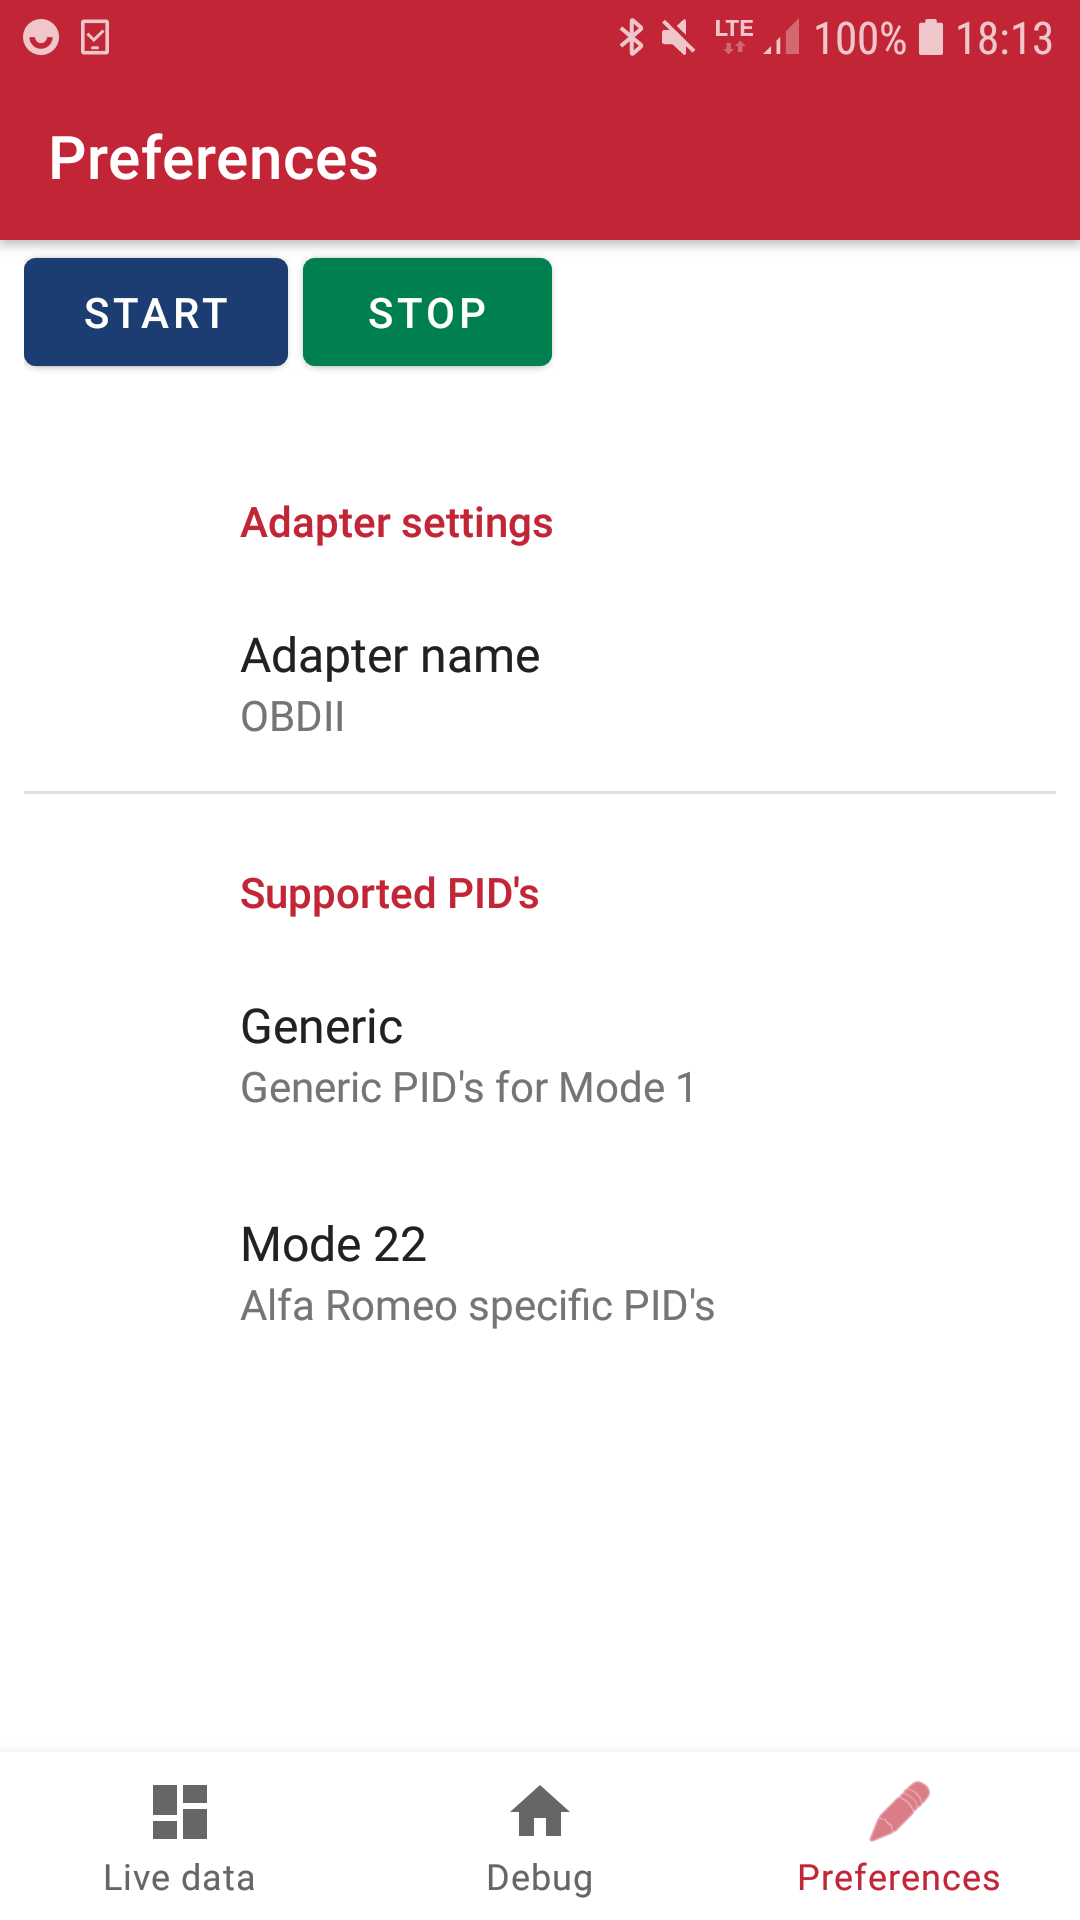
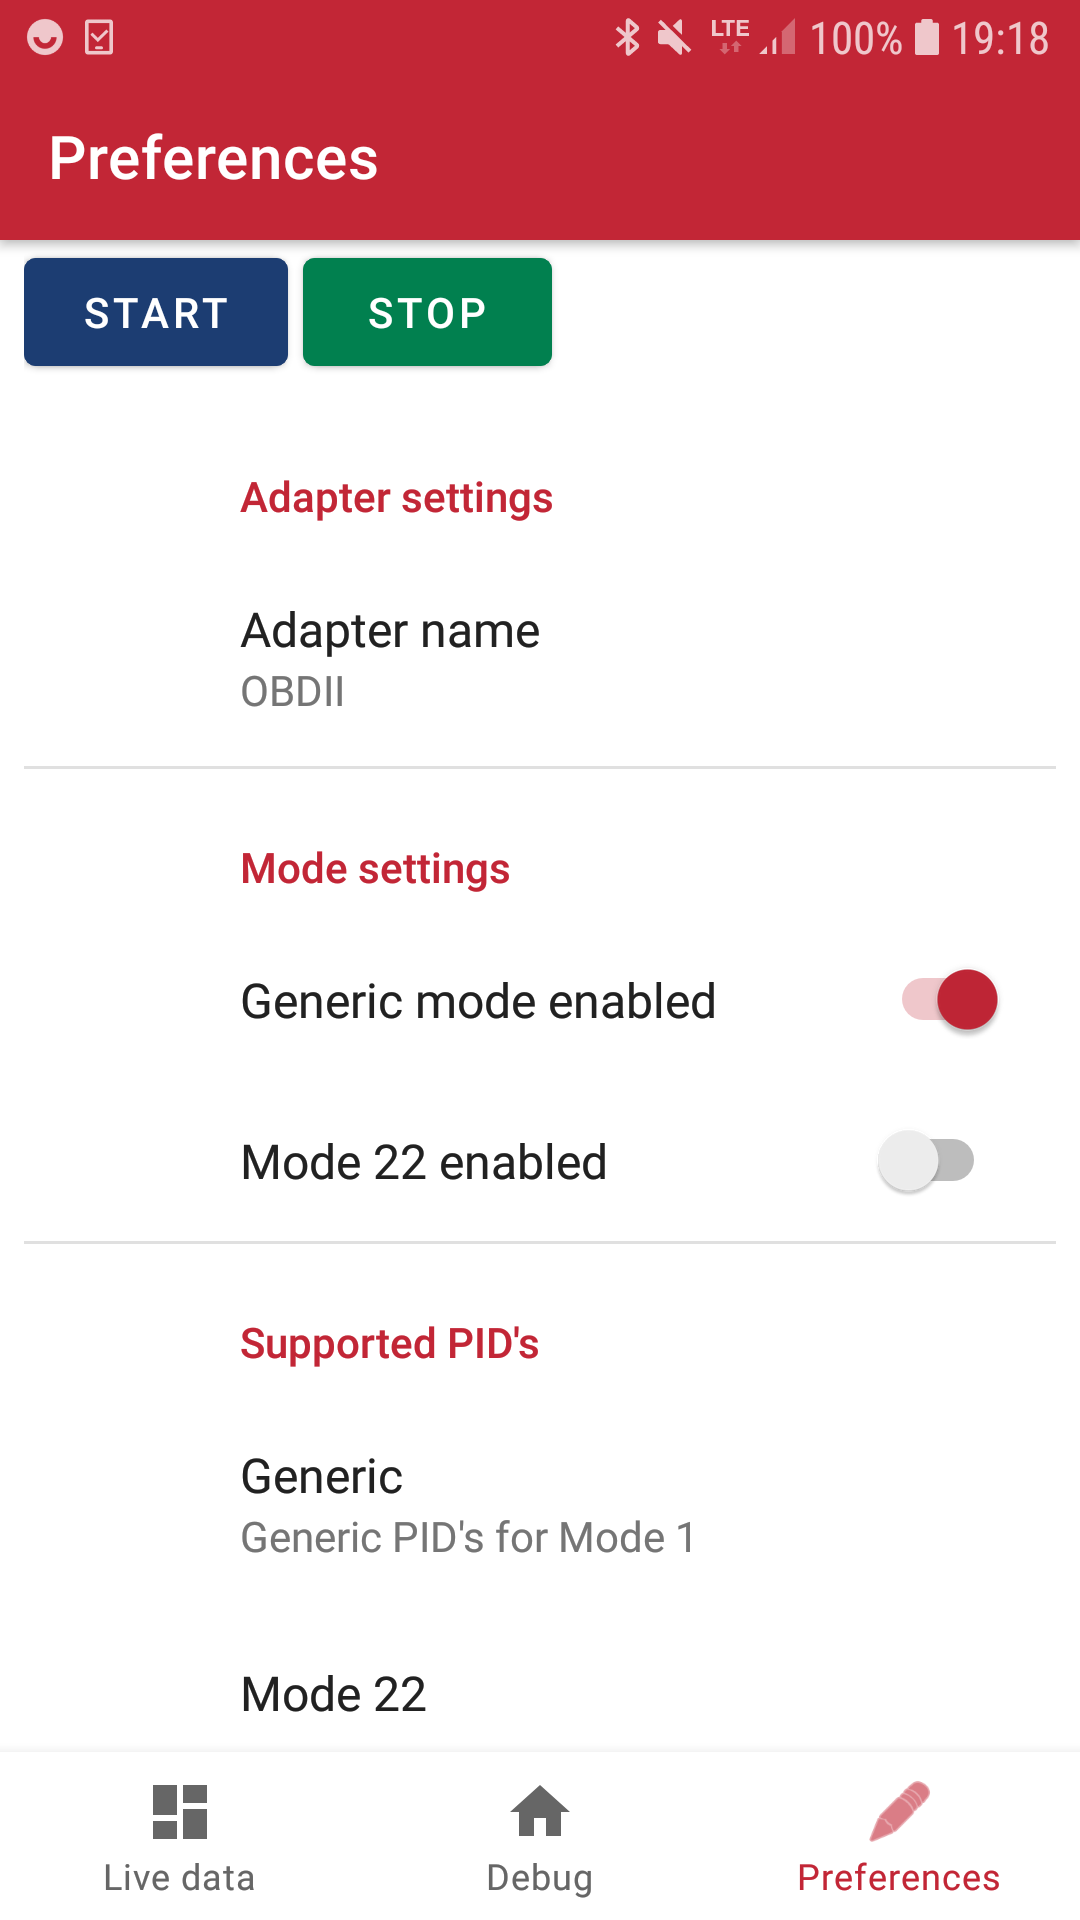
Introduce generic type for PidList preferences

diff --git a/app/src/main/java/org/openobd2/core/logger/bl/DataLogger.kt b/app/src/main/java/org/openobd2/core/logger/bl/DataLogger.kt
@@ -11,6 +11,23 @@ internal class DataLogger {
     private lateinit var workflow: Workflow
     private lateinit var device: String
 
+    private val value = object : State {
+        override fun starting() {
+            Log.i("DATA_LOGGER_DL", "Start collecting process for Device: $device")
+        }
+
+        override fun completed() {
+            Log.i(
+                "DATA_LOGGER_DL",
+                "Collecting process completed for Device: $device"
+            )
+        }
+
+        override fun stopping() {
+            Log.i("DATA_LOGGER_DL", "Stop collecting process for Device: $device")
+        }
+    }
+
     init {
 
         Thread.currentThread().contextClassLoader
@@ -21,22 +38,7 @@ internal class DataLogger {
                     .init(Mode1CommandGroup.SUPPORTED_PIDS)
                     .evaluationEngine("rhino")
                     .subscriber(ModelChangePublisher())
-                    .state(object : State {
-                        override fun starting() {
-                            Log.i("DATA_LOGGER_DL", "Start collecting process for Device: $device")
-                        }
-
-                        override fun completed() {
-                            Log.i(
-                                "DATA_LOGGER_DL",
-                                "Collecting process completed for Device: $device"
-                            )
-                        }
-
-                        override fun stopping() {
-                            Log.i("DATA_LOGGER_DL", "Stop collecting process for Device: $device")
-                        }
-                    })
+                    .state(value)
                     .build()
             }
     }

diff --git a/app/src/main/java/org/openobd2/core/logger/ui/preferences/PidListPreferences.kt b/app/src/main/java/org/openobd2/core/logger/ui/preferences/PidListPreferences.kt
@@ -6,9 +6,10 @@ import androidx.preference.MultiSelectListPreference
 import org.openobd2.core.pid.PidRegistry
 import java.util.*
 
-class PidListPreferences(
+open class PidListPreferences(
     context: Context?,
-    attrs: AttributeSet?
+    attrs: AttributeSet?,
+    fileName: String
 ) :
     MultiSelectListPreference(context, attrs) {
     init {
@@ -18,7 +19,7 @@ class PidListPreferences(
             LinkedList()
 
         Thread.currentThread().contextClassLoader
-            .getResourceAsStream("generic.json").use { source ->
+            .getResourceAsStream(fileName).use { source ->
                 val registry = PidRegistry.builder().source(source).build()
                 registry.definitions. sortedBy { pidDefinition ->  pidDefinition.description}
                     .forEach {p ->

diff --git a/app/src/main/java/org/openobd2/core/logger/ui/preferences/Mode1PidListPreferences.kt b/app/src/main/java/org/openobd2/core/logger/ui/preferences/Mode1PidListPreferences.kt
@@ -1,0 +1,14 @@
+package org.openobd2.core.logger.ui.preferences
+
+import android.content.Context
+import android.util.AttributeSet
+
+class Mode1PidListPreferences(
+    context: Context?,
+    attrs: AttributeSet?
+) :
+    PidListPreferences(context, attrs,"generic.json") {
+    init {
+
+    }
+}

diff --git a/app/src/main/java/org/openobd2/core/logger/ui/preferences/Mode22PidListPreferences.kt b/app/src/main/java/org/openobd2/core/logger/ui/preferences/Mode22PidListPreferences.kt
@@ -1,0 +1,13 @@
+package org.openobd2.core.logger.ui.preferences
+
+import android.content.Context
+import android.util.AttributeSet
+
+class Mode22PidListPreferences(
+    context: Context?,
+    attrs: AttributeSet?
+) :
+    PidListPreferences(context, attrs,"alfa.json") {
+    init {
+    }
+}
